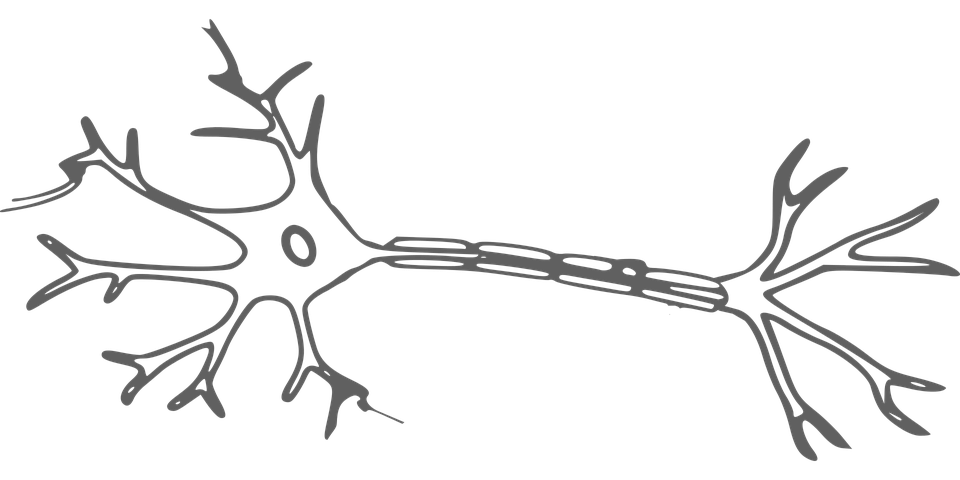
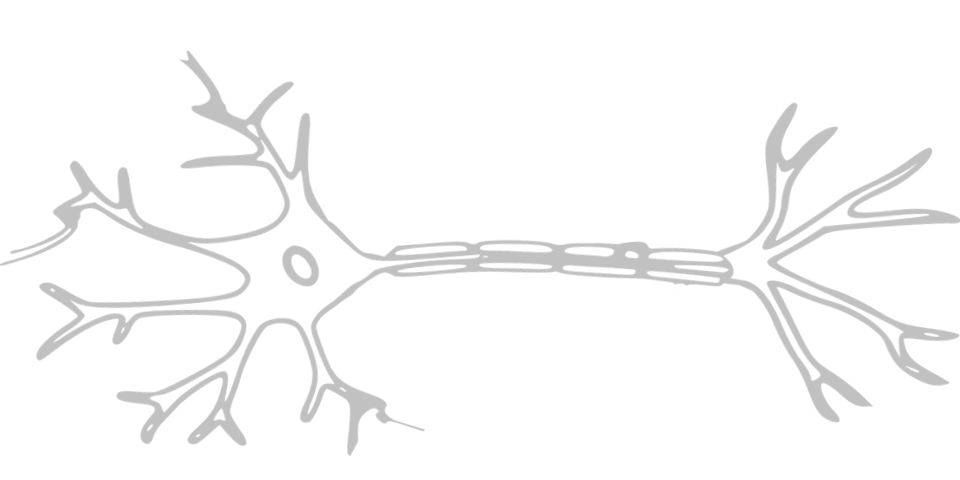
removed asy from tex source, improved makefile

Changed region(s): [[0.0, 0.0312, 1.0, 0.9688], [0.4062, 0.875, 0.4375, 0.9062]]

diff --git a/chapters/background.tex b/chapters/background.tex
@@ -53,17 +53,9 @@ More formally, given an input $\x$ and $L$ non-linear transformations $f_l\(\cdo
 
 where $\Theta = \{\theta_l, l = 1, \dots L\}$ indicates the set of all parameters, also known as \emph{weights}.
 
-Given a training set $\X = \{\(\x_i, \y^\star_i\), i=1,\dots,N\}$ comprised by $N$ couples of inputs and desired outputs, the quality of a particular setting of parameters is quantitatively defined by a \emph{loss function} $\L\(\X; \Theta\)$ that measures how much predictions and targets differ;
-the loss function is usually defined as the average of the individual loss values computed on each sample of the dataset:
-
-\begin{align}
-    \L\(\X; \Theta\) &= \frac{1}{N} \sum_{i=1}^N \mathcal{L}\(\y_i, \y^\star_i\) \\
-                   &= \frac{1}{N} \sum_{i=1}^N \mathcal{L}\(f\(\x_i; \Theta\), \y^\star_i\)
-\end{align}
-
-where the particular formulation of $\L\(\y_i, \y^\star_i\)$ is task-dependent and further discussed in \ref{subsec:back:loss}.
-%In the learning phase, the model is optimized by changing the parameters $\Theta$ in such a way that the output $\mathbf{y}$ reflects the desired target $\mathbf{y^\star}$.
-The learning problem is an optimization problem in which we search the best parameter setting $\Theta^\star$ that minimizes the loss function $\L\(\X; \Theta\)$:
+Given a training set $\X$, the quality of a particular setting of parameters is quantitatively defined by a \emph{loss function} $\L\(\X; \Theta\)$ that measures how much the model predictions differ from the targets provided by $\X$.
+The particular formulation of $\L$ is task-dependent and further discussed in \ref{subsec:back:loss}.
+In the end, the learning problem reduces to an optimization problem in which we search the best parameter setting $\Theta^\star$ that minimizes the loss function $\L\(\X; \Theta\)$:
 
 \begin{equation} \label{eq:back:optim}
     \Theta^\star = \argmin_\Theta \L\(\X; \Theta\)
@@ -88,7 +80,7 @@ Thus, when computing of the whole chain from inputs to outputs, called the \emph
 \subsubsection{Multilayer Perceptron}
 
 \begin{figure}
-    \asyinclude[inline, width=\linewidth]{figures/activations.asy}
+    \includegraphics[ width=\linewidth]{figures/activations}
     \caption{Commonly used activation functions in \glspl{dnn}.}
     \label{fig:back:activations}
 \end{figure}
@@ -108,7 +100,7 @@ The dimensionality of the input $n$ and of the output $m$ are referred to as res
 
 \begin{figure}
     \centering
-    % TODO add neuron figure?
+    \includegraphics[width=0.8\linewidth]{figures/neuron}
     \caption{Parallelism between real and artificial neurons in \glspl{mlp}}
     \label{fig:back:neuron}
 \end{figure}
@@ -140,8 +132,9 @@ A \gls{mlp} with $L$ layers can be defined as follows:
 \subsubsection{Convolutional Neural Network}
 
 \begin{figure}
+    % TODO add dimensions to cross-corr2d figure
     \centering
-    \asyinclude[inline,width=0.5\linewidth]{figures/cross-correlation2d.asy}
+    \includegraphics[width=0.5\linewidth]{figures/cross-correlation2d}
     \caption{Example of cross-correlation between 2D signals}
     \label{fig:back:2d-cross-corr}
 \end{figure}
@@ -175,7 +168,7 @@ A depiction of 2D cross-correlation is reported in~\ref{fig:back:2d-cross-corr}.
 
 \begin{figure}
     \centering
-    \asyinclude[inline,width=\linewidth]{figures/convolution.asy}
+    \includegraphics[width=\linewidth]{figures/convolution}
     \caption{Depiction of 2D cross-correlation on volumes implemented in convolutional layers}
     \label{fig:back:convolution}
 \end{figure}
@@ -234,7 +227,7 @@ This architecture is naturally able to process sequences of inputs -- elements o
 
 \begin{figure}
     \centering
-    \asyinclude[inline,width=.9\linewidth]{figures/rnn.asy}
+    \includegraphics[width=.9\linewidth]{figures/rnn}
     \caption{Basic architecture of a \acrlong{rnn} (left). On the right, its unrolled version for a sequence of length 5.}
     \label{fig:back:rnn}
 \end{figure}
@@ -270,7 +263,7 @@ The concatenation of the internal states of both past-to-future and future-to-pa
 
 \begin{figure}
     \centering
-    \asyinclude[inline,width=.9\linewidth]{figures/bidir-rnn.asy}
+    \includegraphics[width=.9\linewidth]{figures/bidir-rnn}
     \caption{Unrolled version of a Bidirectional \gls{rnn} for a sequence of length 5}
     \label{fig:back:bidir-rnn}
 \end{figure}
@@ -335,7 +328,7 @@ A depiction of the \gls{lstm} cell is aslo available in \ref{fig:back:lstm}.
 
 \begin{figure}
     \centering
-    \asyinclude[inline, width=\linewidth]{figures/lstm.asy}
+    \includegraphics[ width=\linewidth]{figures/lstm}
     \caption{Example of \gls{lstm} cell}
     \label{fig:back:lstm}
 \end{figure}
@@ -343,8 +336,25 @@ A depiction of the \gls{lstm} cell is aslo available in \ref{fig:back:lstm}.
 \subsection{Loss Functions}
 \label{subsec:back:loss}
 
+Loss functions are a key component of \gls{ml} methods.
+Its role is to quantitatively assign a value of goodness of a model in reference to the particular task we want to solve.
 
-%Loss Functions
+Given a training set $\X = \{\(\x_i, \y^\star_i\), i=1,\dots,N\}$ comprised by $N$ couples of inputs and desired outputs, the quality of a particular setting of parameters $\Theta$ is quantitatively defined by a \emph{loss function} $\L\(\X; \Theta\)$ that measures how much predictions and targets differ.
+A loss function is usually defined as one of more terms summed together.
+The main term is often defined as the average of the individual loss values computed on each sample of the dataset $\L\(\y_i, \y^\star_i\)$.
+% TODO assign name data and regularization terms and indicate them in formula
+A secondary optional term is often used to regularize the network and depends only on the model parameters $\Theta$; we indicate this term as $\L_r(\Theta)$.
+
+\begin{align}
+    \L\(\X; \Theta\) &= \frac{1}{N} \sum_{i=1}^N \mathcal{L}\(\y_i, \y^\star_i\) + \L_r\(\Theta\) \\
+                   &= \frac{1}{N} \sum_{i=1}^N \mathcal{L}\(f\(\x_i; \Theta\), \y^\star_i\) + \L_r\(\Theta\)
+\end{align}
+
+In the next paragraphs, we will provide the reader with some of the most used formulations of $\L\(\y_i, \y^\star_i\)$ and $\L_r(\Theta)$ of interest for this work.
+
+
+%We are interested in differentiable loss functions
+
 %Cross-entropy
 %MSE
 %L2 Weight decay

diff --git a/thesis.tex b/thesis.tex
@@ -35,15 +35,6 @@
 \usepackage{amsmath,amssymb}
 %\usepackage{cite}
 \usepackage[numbers]{natbib}
-\usepackage[inline]{asymptote}
-\def\asylatexdir{aux}
-\begin{asydef}
-// Global Asymptote definitions.
-
-\end{asydef}
-
-%\def\asydir{aux}
-%\graphicspath{{aux/}}
 
 %\usepackage{graphicx}
 \usepackage{listings}
